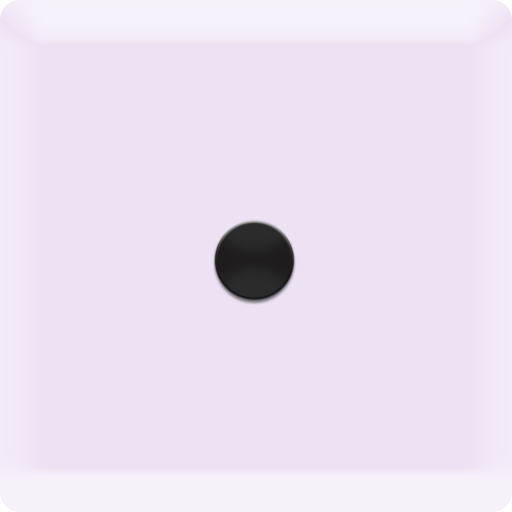
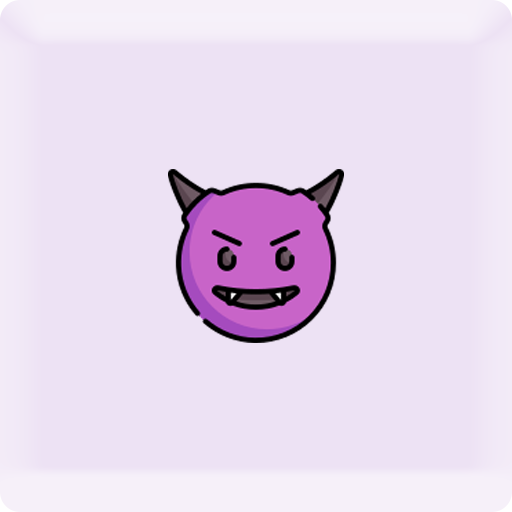
added animation on dice 1

Changed region(s): [[0.3125, 0.3125, 0.6875, 0.6875]]

diff --git a/src/app.js b/src/app.js
@@ -1,51 +1,36 @@
 var scores = [0, 0];
 var curTotalScore = 0;
 var activePlayer = 0;
-
-/* Change current dice # */
-// textContent() gets the content of all elements, including <script> and <style> elements
-// document.querySelector("#cur-" + activePlayer).textContent = dice;
-
-// In contrast, innerText() only shows “human-readable” elements
-// document.querySelector("#cur-" + activePlayer).innerHTML =
-//   "<em>" + dice + "</em>";
-
-// Also possible to access  like this
-// var x = document.querySelector("#score-0").innerHTML;
-// console.log(x);
-
 // Changing CSS property
 document.querySelector(".dice-img").style.display = "none";
 
-// Event listener for roll btn
-// btn is a callback fcn; fun passed as an argument
-// document.querySelector(".btn-roll").addEventListener("click", btn);
-// function btn() {}
-
-// Anonymous function; function that's used only here; has no usability
 document.querySelector(".btn-roll").addEventListener("click", function() {
+  var diceDOM = document.querySelector(".dice-img");
+  // Remove animation
+  diceDOM.style.animation = "none";
+
   // 1. get rand# btwn 1 - 6
   var dice = Math.floor(Math.random() * 6) + 1;
 
   // 2. display dice with rand generated#
-  var diceDOM = document.querySelector(".dice-img");
   diceDOM.style.display = "block";
   diceDOM.src = "./img/" + dice + ".png";
 
   // 3. update curTotalScore if rolled# wasn't 1
   if (dice === 1) {
+    // Fade in effect
+    diceDOM.style.animation = "fadeIn 1.5s forwards ease-in";
+
     switchPlayer();
   } else {
     curTotalScore += dice;
-
     // Selects by id. Faster; exclude '#'
     document.getElementById("cur-" + activePlayer).innerHTML = curTotalScore;
   }
 });
 
+// Hold Btn
 document.querySelector(".btn-hold").addEventListener("click", function() {
-//   console.log(scores); ///
-
   // Update score
   scores[activePlayer] += curTotalScore;
   document.getElementById("score-" + activePlayer).innerHTML =
@@ -59,5 +44,12 @@ function switchPlayer() {
   curTotalScore = 0;
   document.getElementById("cur-" + activePlayer).innerHTML = 0;
 
+  // Update active class & update user
+  document
+    .querySelector(".player-" + activePlayer + "-panel")
+    .classList.remove("active");
   activePlayer = activePlayer === 0 ? (activePlayer = 1) : (activePlayer = 0);
+  document
+    .querySelector(".player-" + activePlayer + "-panel")
+    .classList.add("active");
 }

diff --git a/scss/main.scss b/scss/main.scss
@@ -157,3 +157,15 @@ body {
     box-shadow: 0.5rem 1rem 1.5rem rgba(0, 0, 0, 0.3);
   }
 }
+
+// Fade in dice1
+@keyframes fadeIn {
+  /* Specify points in animation */
+  from {
+    opacity: 1;
+  }
+  to {
+    // transform: translateX(-100px);
+    opacity: 0;
+  }
+}

diff --git a/src/css/main.css b/src/css/main.css
@@ -110,3 +110,10 @@ body {
     width: 110px;
     height: 110px;
     box-shadow: 0.5rem 1rem 1.5rem rgba(0, 0, 0, 0.3); }
+
+@keyframes fadeIn {
+  /* Specify points in animation */
+  from {
+    opacity: 1; }
+  to {
+    opacity: 0; } }
